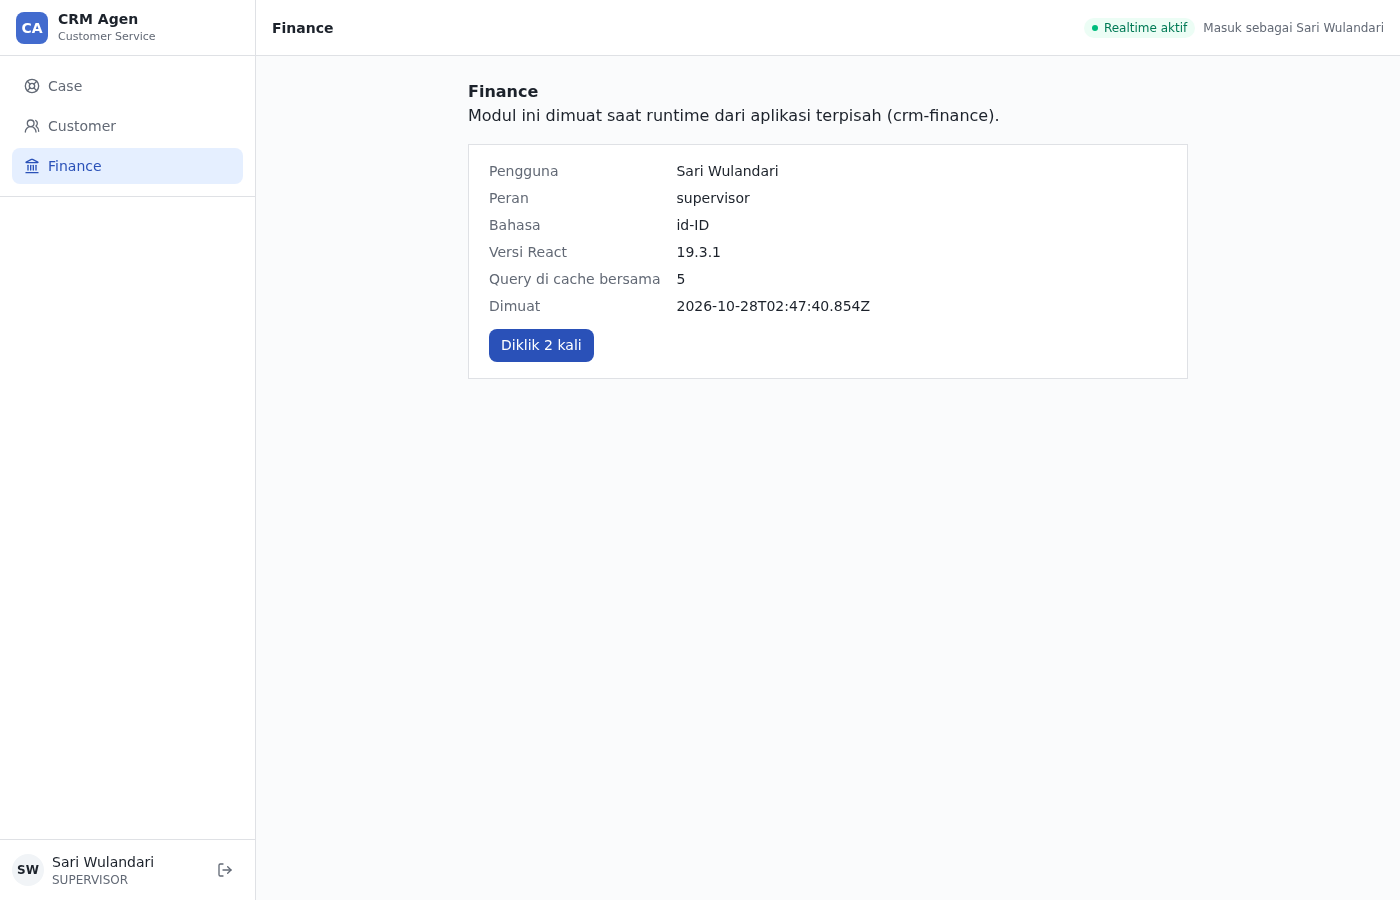
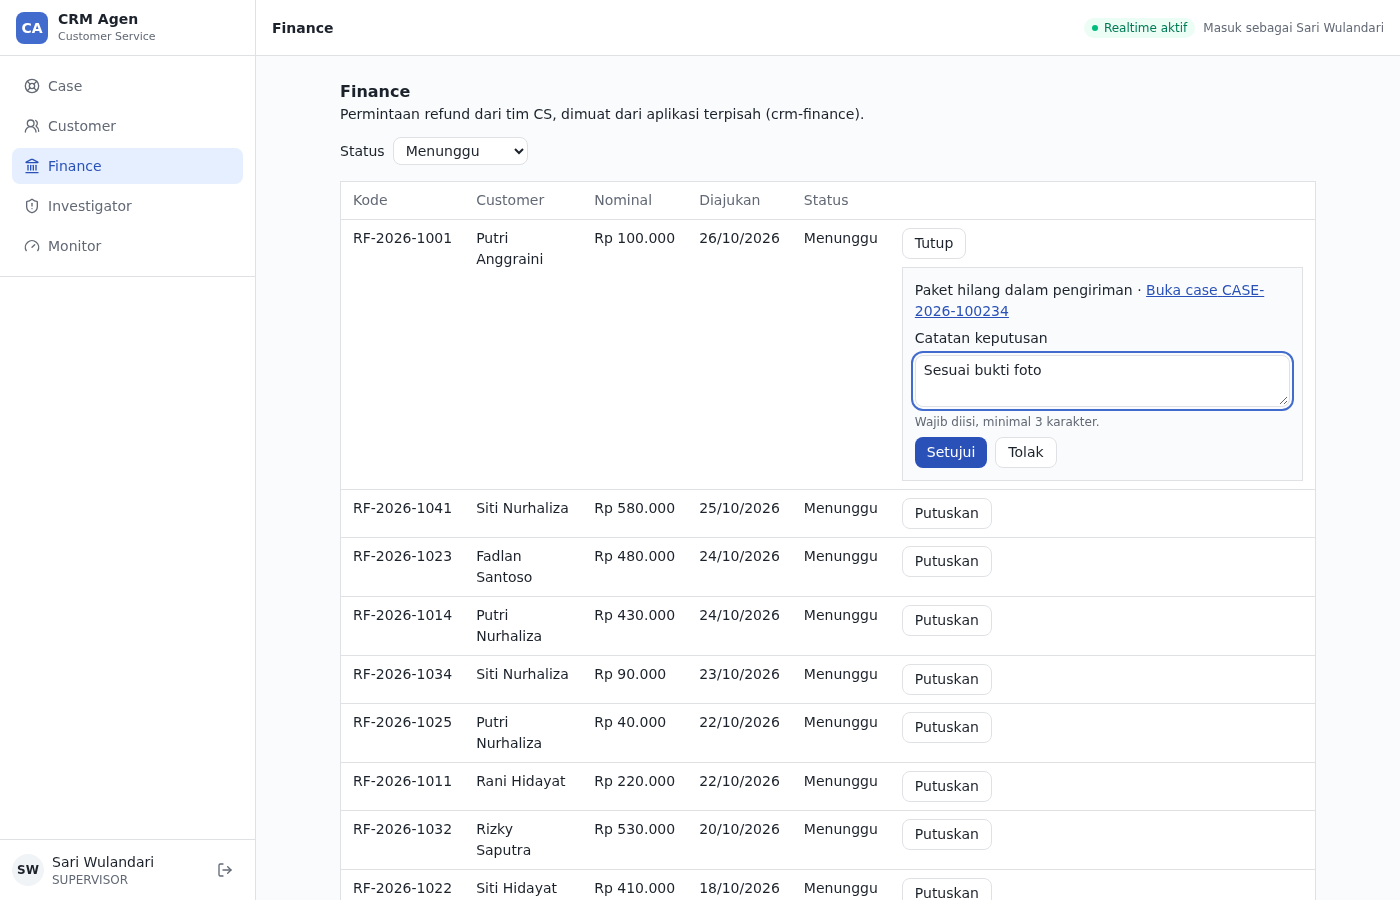
docs: describe the menu flows, demo script, and PoC limits

diff --git a/docs/poc/micro-frontend.md b/docs/poc/micro-frontend.md
@@ -1,33 +1,78 @@
 # Micro frontend PoC
 
 Status: proof of concept on a feature branch. It answers "can this app be split into micro
-frontends?" with a working host and three remotes that behave like separate teams' modules. It is
-not an accepted architecture decision; if the team adopts it, record that as an ADR
-(`docs/adr/README.md`).
+frontends?" with a working host and three remotes that behave like separate teams' modules, every
+menu with a complete flow, all on a mock backend. It is not an accepted architecture decision; if
+the team adopts it, record that as an ADR (`docs/adr/README.md`).
 
-| Investigator (list)                                       | Investigator (detail)                                         |
-| --------------------------------------------------------- | ------------------------------------------------------------- |
-| ![Investigator list](../images/mfe-investigator-list.png) | ![Investigator detail](../images/mfe-investigator-detail.png) |
-| **Monitor**                                               | **Finance**                                                   |
-| ![Monitor](../images/mfe-monitor.png)                     | ![Finance](../images/mfe-finance.png)                         |
+| Finance (decision panel)              | Investigator (detail and actions)                             |
+| ------------------------------------- | ------------------------------------------------------------- |
+| ![Finance](../images/mfe-finance.png) | ![Investigator detail](../images/mfe-investigator-detail.png) |
+| **Monitor**                           | **Customer (case history)**                                   |
+| ![Monitor](../images/mfe-monitor.png) | ![Customer](../images/mfe-customer.png)                       |
+
+## What each menu does
+
+| Menu         | Where it lives          | Permission      | Flow                                                                                                                              |
+| ------------ | ----------------------- | --------------- | --------------------------------------------------------------------------------------------------------------------------------- |
+| Case         | host (`crm-console`)      | `case.view`     | List with filters, create a case, detail with timeline, reply, change status or priority, assign to me, **move to another queue** |
+| Customer     | host (`crm-console`)      | `customer.view` | List, profile with PII masked by role, **case history** with links to each case                                                   |
+| Finance      | `apps/crm-finance`      | `case.export`   | Refund requests: filter by status, approve or reject with a required note, who decided and when, link to the case                 |
+| Investigator | `apps/crm-investigator` | `case.escalate` | Escalated cases: list with paging, detail, add an internal note, change status or queue, open the case in Case                    |
+| Monitor      | `apps/crm-monitor`      | `case.reassign` | Queue load: unassigned, overdue, open per queue; queues and unassigned link to the filtered Case list; refreshes every 30 seconds |
+
+The menus are connected by what a user does, not only by shared data: an L2 agent or supervisor
+moves a case to the escalation queue in **Case**, it shows up first in **Investigator**, an
+investigator adds a note and changes the status, **Case** shows both without a reload, and
+**Monitor** links to the filtered list. Finance reaches the case of a refund the same way.
+
+### What was invented, and what was not
+
+Be clear about this when presenting:
+
+- **Real, from the existing contract:** everything in Case, Customer, Investigator, and Monitor
+  except the two additions below. They use `GET /v1/cases`, `GET /v1/cases/{caseId}`,
+  `PATCH /v1/cases/{caseId}`, `POST /v1/cases/{caseId}/replies`, `GET /v1/cases/summary`,
+  `GET /v1/customers`, and `GET /v1/master-data`.
+- **Small additions to the existing contract (Proposed):** an optional `customerId` filter on
+  `GET /v1/cases` (customer history) and an optional `refundStatuses` list in master data.
+- **Invented for the PoC (Proposed, mock only): the whole Finance domain.** `GET /v1/finance/refunds`
+  and `PATCH /v1/finance/refunds/{refundId}`, the refund fields, the statuses (pending, approved,
+  rejected), the `409` for an already decided refund, and the seed data. Nobody agreed on any of it.
+  The rows are marked **Proposed** in `docs/contract-status.md`.
+- **Stand-in permissions.** `case.export`, `case.escalate`, and `case.reassign` already exist and
+  were reused, so the PoC makes no business decision. A permission per team is for the product
+  owners. The queue code `escalated` is an assumption; if master data lacks it, Investigator says
+  so instead of showing another queue.
+- **Mock data quirk.** The last 1,000 cases share customers with the first 1,000, so a customer
+  profile can show a history. Case ids and codes did not change.
+
+## Demo script (about five minutes)
+
+Run `pnpm poc:mfe` and open http://localhost:5173 (signed in as supervisor, all five menus).
+
+1. **Case:** open a case, change its queue to _Eskalasi_ ("Antrean" select).
+2. **Investigator:** the case is first in the list. Open it, add an internal note, set the status to
+   _Menunggu_. Click _Buka di Case_: the note and the status are already there. This menu is a
+   different app, loaded at runtime.
+3. **Monitor:** click _Eskalasi_: the host opens the escalation queue of Case.
+4. **Finance:** filter _Menunggu_, click _Putuskan_, try the buttons without a note (disabled), write
+   a note, approve one and reject another, then filter _Disetujui_ and _Ditolak_.
+5. **Customer:** open a profile, see the case history, click a case.
+6. **Other teams:** open `http://localhost:5173/cases?role=l1` (then `l2`): the menu changes, and a
+   direct URL such as `/remote/monitor` goes back to Case.
+7. **Resilience:** stop one remote (for example the process on port 5175), reload: the other
+   menus keep working and the stopped one disappears.
+
+Data lives in page memory, so a reload resets it. Stay in the app by clicking while you demo.
 
 ## The remotes
 
-| App                     | Port (dev / preview) | Module id      | Needs permission | Shows                                                                  |
-| ----------------------- | -------------------- | -------------- | ---------------- | ---------------------------------------------------------------------- |
-| `apps/crm-finance`      | 5174 / 4175          | `finance`      | none             | Placeholder: what a remote shares with the host (session, cache, i18n) |
-| `apps/crm-investigator` | 5175 / 4176          | `investigator` | `case.escalate`  | Escalated cases: list with pagination, then detail with the timeline   |
-| `apps/crm-monitor`      | 5176 / 4177          | `monitor`      | `case.reassign`  | Queue load: unassigned, overdue, open cases per queue                  |
-
-Investigator and Monitor use only data that already exists in the contract (`GET /v1/cases`,
-`GET /v1/cases/{caseId}`, `GET /v1/cases/summary`, `GET /v1/master-data`). Finance has no data
-because the contract has none for it; nothing was invented.
-
-**The permissions are stand-ins.** `case.escalate` (L2, supervisor, admin) and `case.reassign`
-(supervisor, admin) already exist in `packages/auth/src/roles.ts` and were reused so the PoC makes
-no business decision. A dedicated permission per team is for the product owners to decide. The
-escalation queue code `escalated` is an assumption on the provisional contract; if master data does
-not have it, Investigator says so instead of showing another queue.
+| App                     | Port (dev / preview) | Module id      |
+| ----------------------- | -------------------- | -------------- |
+| `apps/crm-finance`      | 5174 / 4175          | `finance`      |
+| `apps/crm-investigator` | 5175 / 4176          | `investigator` |
+| `apps/crm-monitor`      | 5176 / 4177          | `monitor`      |
 
 ## What it proves
 
@@ -40,17 +85,18 @@ not have it, Investigator says so instead of showing another queue.
 | Different teams see different things                                  | See the role matrix below, including direct URLs                                                                                    |
 | A remote can own routes under its prefix                              | Investigator has a list at `/remote/investigator` and details at `/remote/investigator/case/<id>`; deep links survive a hard reload |
 | Remotes use the host's API client                                     | Same session, CSRF handling, and PII masking as built-in modules; no second client                                                  |
+| Remotes and host can open each other's pages                          | `openHostPath` goes from a remote to a host path (Case, filtered lists); Case links into the remotes through the menu               |
 | Failures are contained                                                | Stop one remote: the others and the host keep working. Stop all: the host works, remote paths show "Modul tidak tersedia"           |
 | The host's session handling covers remotes                            | A 401 on a remote's query sends the user to `/login?redirect=/remote/...`; signing out clears the remotes' cached data              |
 | The menu is stable                                                    | Remotes load in parallel but register in the configured order, so the menu does not depend on which answered first                  |
 
-### Role matrix (mock roles, `VITE_MOCK_ROLE`)
+### Role matrix (mock roles)
 
-| Role         | Menu                                           | `/remote/investigator` | `/remote/monitor` |
-| ------------ | ---------------------------------------------- | ---------------------- | ----------------- |
-| `l1`         | Case, Finance                                  | redirected to `/cases` | redirected        |
-| `l2`         | Case, Customer, Finance, Investigator          | opens                  | redirected        |
-| `supervisor` | Case, Customer, Finance, Investigator, Monitor | opens                  | opens             |
+| Role         | Menu                                           | `/remote/finance` | `/remote/investigator` | `/remote/monitor` |
+| ------------ | ---------------------------------------------- | ----------------- | ---------------------- | ----------------- |
+| `l1`         | Case                                           | back to `/cases`  | back to `/cases`       | back to `/cases`  |
+| `l2`         | Case, Customer, Investigator                   | back to `/cases`  | opens                  | back to `/cases`  |
+| `supervisor` | Case, Customer, Finance, Investigator, Monitor | opens             | opens                  | opens             |
 
 ## How it works
 
@@ -61,8 +107,9 @@ apps/crm-console             host: shell, session, routing, shared singletons
   src/app/modules/remote.ts      reads VITE_REMOTE_MODULES, loads each `<name>/module`, registers in order
   src/app/modules/registry.ts    registerRemoteModule(): ignores an id or path that is taken, with a warning
   src/app/modules/guard.ts       beforeLoad guard: permission comes from the loaded module
-  src/app/modules/RemoteModulePage.tsx   gives the page `api`, `subPath`, `navigate`; or "unavailable"
+  src/app/modules/RemoteModulePage.tsx   gives the page `api`, `subPath`, `navigate`, `openHostPath`; or "unavailable"
   src/routes/_authenticated/remote/$moduleId/   index and splat routes, one pair for every remote
+  src/mocks/browser.ts           dev only: `?role=l1` opens the app as that role
 apps/crm-finance, crm-investigator, crm-monitor   remotes: expose ./module, add their own i18n texts
 ```
 
@@ -72,8 +119,10 @@ apps/crm-finance, crm-investigator, crm-monitor   remotes: expose ./module, add 
   `VITE_REMOTE_MODULES` (`name=entryUrl`, comma separated; empty means no remotes), so one host
   build can point to different remotes per environment.
 - **What the host gives a remote page** (`RemotePageProps`): `api` (the host's API client),
-  `subPath` (the path below `/remote/<id>/`), and `navigate(subPath)` (moves inside the host router
-  without a reload). Remote links keep a real `href` so "open in a new tab" works.
+  `subPath` (the path below `/remote/<id>/`), `navigate(subPath)` (inside the remote's own prefix,
+  no reload), and `openHostPath(path)` (a host page such as `/cases/case-00001`; only internal
+  paths are accepted, through the same `safeRedirectPath` that protects the login redirect). Remote
+  links keep a real `href` so "open in a new tab" works.
 - **Shared singletons** (`react`, `react-dom`, `react-i18next`, `@tanstack/react-query`,
   `@crm/auth`): the host and every remote declare the same list. Anything that holds state or
   context must be shared, or hooks break and contexts split. `@crm/module-contract` is type-only,
@@ -90,9 +139,10 @@ pnpm install
 pnpm poc:mfe          # host :5173 (mock backend) + the three remotes
 ```
 
-Open http://localhost:5173. The mock signs in as supervisor; to see other teams' views, set the
-role: `VITE_MOCK_ROLE=l1 pnpm poc:mfe` (or `l2`). To see the host without any remote, run `pnpm dev`.
-To load a production build of one remote:
+Open http://localhost:5173. The mock signs in as supervisor. To see another team's view, add
+`?role=l1` (or `l2`, `supervisor`) to the URL; it is read once when the page loads, and signing out
+and in again returns to the role from `VITE_MOCK_ROLE`. To see the host without any remote, run
+`pnpm dev`. To load a production build of one remote:
 
 ```bash
 pnpm --filter @crm/crm-finance build
@@ -102,6 +152,14 @@ VITE_REMOTE_MODULES=crm_finance=http://localhost:4175/remoteEntry.js pnpm dev
 
 `poc:mfe` sets the variable inline, which works in bash and zsh (Linux, macOS, WSL). It uses
 `--no-bail`, so stopping one remote does not stop the host or the others.
+
+### Tests
+
+`pnpm test:e2e:mfe` runs `apps/crm-console/e2e-mfe/` against the host and the three remotes
+(config: `apps/crm-console/playwright.mfe.config.ts`; servers that are already running are reused).
+It is not part of CI, which never starts the remotes. It covers the journey across menus, the
+Finance decisions, the customer history, the role matrix, and axe scans (WCAG 2.1 AA) of every
+remote page. `pnpm test:e2e` (host alone) and `pnpm check` stay green without any remote.
 
 ## Add another remote
 
@@ -125,8 +183,10 @@ Rules for a remote:
 - **i18n:** write only under your own module id. The merge uses `overwrite`, so a remote could
   replace a host text; nothing enforces the namespace.
 - **CSS:** one global namespace. Prefix every class with the module id.
-- **Query keys:** prefix with the module id. The host's own invalidations (for example after a
-  reply on a case) do not refresh a remote's view; a remote must refetch on its own schedule.
+- **Query keys:** prefix your own with the module id. After a write, a remote that must refresh
+  host views has to invalidate the host's keys itself (Investigator invalidates `['cases']`), which
+  couples it to the host's key names. The host's own invalidations do not refresh a remote's view,
+  so remote pages refetch when opened (`staleTime: 0`).
 
 ## What it does not cover
 
@@ -137,16 +197,16 @@ Rules for a remote:
 - **Versioning.** Host and remotes share singletons by name only. A breaking change in a shared
   library (for example React) or in `@crm/module-contract` needs a coordinated release; nothing
   here enforces it. Changing the contract already forces every remote to change.
-- **Writes.** The remotes are read-only. Mutations would need cache invalidation across the
-  boundary and the contract's write endpoints, which are not agreed yet.
 - **Shared UI.** `components/ui` still lives inside `apps/crm-console`, so each remote re-implements
   its small tables and buttons in plain CSS. Extract the primitives to a package first.
+- **Real-time.** The mock has no event stream (set `VITE_MOCK_EVENTS=true` to simulate it in the
+  host), so remote views refresh on open or on a timer, not by push.
 - **Escalation scope.** Investigator lists every case in the escalation queue (all statuses), while
   Monitor counts open cases; which view a team needs is a domain decision.
-- **Domain.** Finance has no real content, and no team-specific permission exists yet.
-- **Tests.** The host side (loader, registry, guard, page, props) has unit tests. The remotes have
-  none and no end-to-end test starts all apps; CI never runs a remote and stays green without one.
-  The behaviors above were verified by hand in a browser.
+- **Finance beyond the PoC.** No refund creation from a case, no amounts or limits per role, no
+  audit trail beyond the decision note.
+- **Tests.** The host side (loader, registry, guard, page, props, customer history) has unit tests.
+  The remotes have no unit tests; their behavior is covered by the `e2e-mfe` suite described above.
 
 ## Security: a remote is not isolated from the host
 

diff --git a/AGENTS.md b/AGENTS.md
@@ -28,6 +28,7 @@ together is in [docs/system-design.md](docs/system-design.md); UI rules are in [
 | `pnpm exec vitest run <test-file>` | Fast loop on one unit                                                                                                                                                                                                                          |
 | `pnpm lint` / `pnpm typecheck`     | Fast loop for types and layer boundaries                                                                                                                                                                                                       |
 | `pnpm test:e2e`                    | Flow, routing, auth, or UI changes. Includes the axe accessibility scan (WCAG 2.1 AA). Needs the browser once: `pnpm --filter @crm/crm-console exec playwright install chromium` (add `--with-deps` on a fresh Linux/WSL machine; it needs sudo) |
+| `pnpm test:e2e:mfe`                | Micro frontend PoC only: journeys across every menu on the host plus the three remotes (`apps/crm-console/e2e-mfe/`). Not part of CI; it starts or reuses four dev servers                                                                       |
 | `pnpm format`                      | Fixes formatting; CI runs `pnpm format:check`                                                                                                                                                                                                  |
 | `pnpm codegen:api`                 | After editing `openapi.yaml`; CI fails if the result differs from what is committed                                                                                                                                                            |
 
@@ -123,6 +124,7 @@ packages/
 - **i18n `resources` use `as const`**, so TypeScript cannot see a key missing in one locale; the parity test catches it.
 - **Mocks run only in dev** (`import.meta.env.DEV`). Production builds exclude MSW, and the image drops `*.map` and `mockServiceWorker.js`.
 - **Session expiry vs logout:** `ModuleDefinition.onSignOut(reason)` receives `'logout'` or `'expired'`. Unsent drafts are deleted only on `logout`.
+- **Mock role in dev:** the mock session starts as `VITE_MOCK_ROLE`; `?role=l1|l2|supervisor|admin` on the URL overrides it for that page load (dev only, `src/mocks/browser.ts`). Mock data lives in page memory, so a reload resets it.
 
 ## Agent boundaries
 

diff --git a/README.md b/README.md
@@ -65,6 +65,7 @@ Langkah ini tidak diperlukan untuk `pnpm dev` atau `pnpm check`.
 | `pnpm new:module`                   | Buat kerangka modul baru (lihat bagian di bawah)                                                         |
 | `pnpm new:endpoint`                 | Tambah endpoint GET ke satu modul (`docs/agents/recipes.md`)                                             |
 | `pnpm poc:mfe`                      | PoC micro frontend: host + 3 remote (Finance, Investigator, Monitor), lihat `docs/poc/micro-frontend.md` |
+| `pnpm test:e2e:mfe`                 | E2E PoC micro frontend: alur lintas semua menu (host + 3 remote), tidak ikut CI                          |
 | `pnpm format`                       | Prettier (`pnpm format:check` untuk cek saja, dipakai CI)                                                |
 
 ## Cara kerjanya
